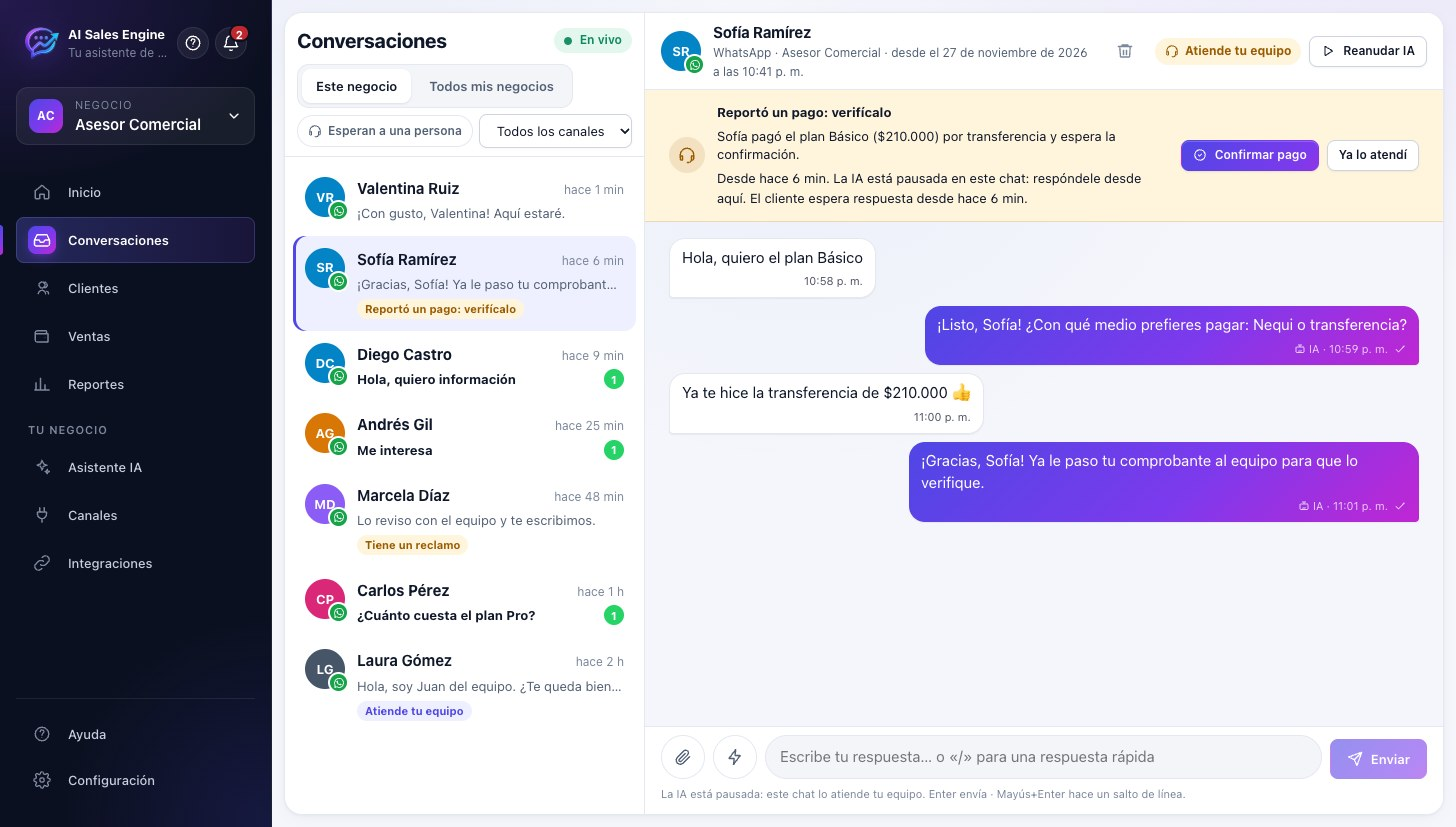
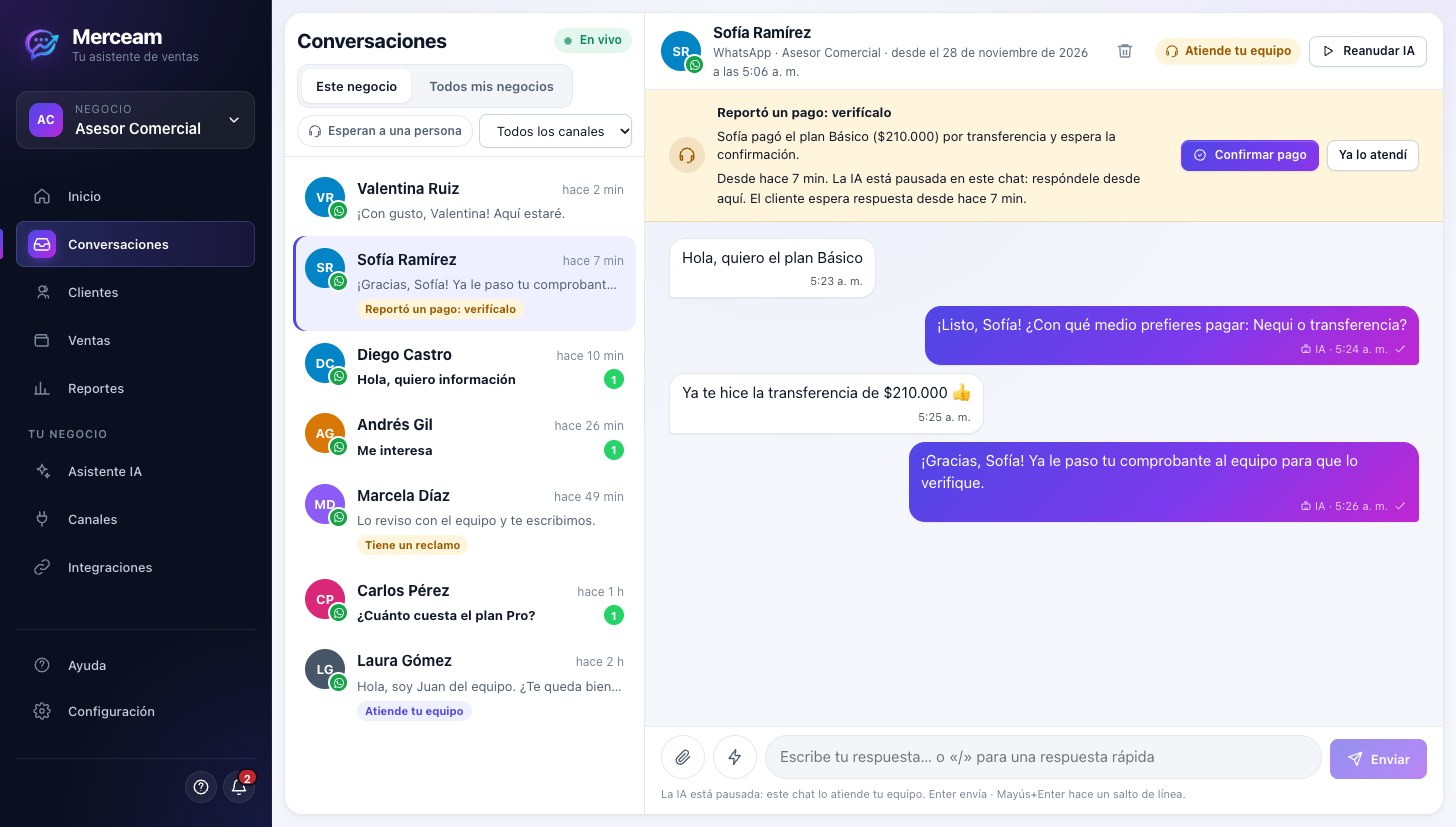
El menú muestra «Merceam» grande y completo: la ayuda de la pantalla y la campana de avisos pasan abajo, junto al nombre y el correo de la cuenta, y el panel de avisos se abre desde ahí; capturas del README tomadas de nuevo con el nombre y el menú nuevos

diff --git a/apps/admin-web/src/layout/Sidebar.tsx b/apps/admin-web/src/layout/Sidebar.tsx
@@ -41,8 +41,8 @@ interface SidebarProps {
 const SWIPE_TO_CLOSE = 60;
 
 /**
- * Menú del negocio: primero atender y vender; después, su configuración. Como en Slack o Linear, los avisos van junto a la marca y
- * la cuenta abajo: el contenido no pierde alto con una barra superior.
+ * Menú del negocio: primero atender y vender; después, su configuración. Arriba va solo la marca; abajo, la cuenta con la ayuda y
+ * los avisos a su lado: el contenido no pierde alto con una barra superior.
  */
 export function Sidebar({ id, open, compact = false, onClose, onOpenHelp }: SidebarProps) {
   const { progress, publication } = useConfig();
@@ -79,15 +79,10 @@ export function Sidebar({ id, open, compact = false, onClose, onOpenHelp }: Side
           <span className="sidebar__brand-name">{BRAND_NAME}</span>
           <span className="sidebar__brand-sub">Tu asistente de ventas</span>
         </div>
-        {compact ? (
+        {compact && (
           <button type="button" className="sidebar__close" aria-label="Cerrar menú" onClick={onClose}>
             <Icon name="close" size={18} />
           </button>
-        ) : (
-          <span className="sidebar__actions">
-            {onOpenHelp && <HelpButton onOpen={onOpenHelp} />}
-            <NotificationBell />
-          </span>
         )}
       </div>
 
@@ -122,9 +117,16 @@ export function Sidebar({ id, open, compact = false, onClose, onOpenHelp }: Side
         </div>
       </nav>
 
-      {verifiesCredentials && (
+      {/* Abajo, en una fila: la cuenta y, a su lado, la ayuda de la pantalla y los avisos (en el celular van en la barra superior). */}
+      {(verifiesCredentials || !compact) && (
         <div className="sidebar__footer">
-          <UserMenu />
+          {verifiesCredentials && <UserMenu />}
+          {!compact && (
+            <span className="sidebar__actions">
+              {onOpenHelp && <HelpButton onOpen={onOpenHelp} />}
+              <NotificationBell />
+            </span>
+          )}
         </div>
       )}
     </aside>

diff --git a/apps/admin-web/src/styles/workspace.css b/apps/admin-web/src/styles/workspace.css
@@ -1774,10 +1774,7 @@
 }
 
 
-/* ---------------------------------------------------------------- avisos y cuenta en la barra lateral (como Slack o Linear) */
-.sidebar__brand .bell {
-  margin-left: auto;
-}
+/* ---------------------------------------------------------------- cuenta, ayuda y avisos al pie de la barra lateral */
 
 .sidebar .bell__button {
   width: 34px;
@@ -1802,7 +1799,8 @@
 /* Los menús de la barra lateral se abren a su lado, por encima de todo (la barra recorta lo que se sale de ella). */
 .sidebar .bell__panel {
   position: fixed;
-  top: var(--space-4);
+  top: auto;
+  bottom: var(--space-4);
   left: calc(var(--sidebar-width) + 10px);
   right: auto;
   z-index: 60;
@@ -1812,6 +1810,23 @@
   margin-top: auto;
   padding-top: var(--space-3);
   border-top: 1px solid var(--sidebar-border);
+  display: flex;
+  align-items: center;
+  gap: var(--space-2);
+}
+
+.sidebar__footer .user-menu {
+  flex: 1;
+  min-width: 0;
+}
+
+/* Con la ayuda y los avisos al lado, la cuenta no lleva flecha: el espacio es para el nombre y el correo. */
+.sidebar__footer:has(.sidebar__actions) .user-menu__trigger {
+  padding: 8px 6px;
+}
+
+.sidebar__footer:has(.sidebar__actions) .user-menu__trigger .icon {
+  display: none;
 }
 
 .sidebar .user-menu__trigger {

diff --git a/apps/admin-web/src/styles/help.css b/apps/admin-web/src/styles/help.css
@@ -10,18 +10,9 @@
   margin-left: auto;
 }
 
-/* Con dos botones junto a la marca, el nombre sigue en una línea. */
+/* En el menú van abajo, al lado de la cuenta. */
 .sidebar__actions {
   gap: 6px;
-}
-
-.sidebar__brand:has(.sidebar__actions) {
-  gap: var(--space-2);
-}
-
-.sidebar__brand:has(.sidebar__actions) .sidebar__brand-name {
-  white-space: nowrap;
-  font-size: var(--text-sm);
 }
 
 .sidebar__actions .bell__button,

diff --git a/apps/admin-web/src/styles/layout.css b/apps/admin-web/src/styles/layout.css
@@ -61,9 +61,10 @@
 }
 
 .sidebar__brand-name {
-  font-weight: 700;
-  font-size: var(--text-md);
-  letter-spacing: -0.01em;
+  font-weight: 800;
+  font-size: 21px;
+  line-height: 1.15;
+  letter-spacing: -0.03em;
   color: var(--sidebar-text-strong);
 }
 

diff --git a/CHANGELOG.md b/CHANGELOG.md
@@ -11,6 +11,8 @@ está en el historial de git y en `docs/plan-v1.md`.
 - La dirección del panel pasa a `merceam.vercel.app` y la del motor (la API del asistente) a `merceam-api.vercel.app`. Quien tenga
   encendidas las notificaciones del navegador debe encenderlas otra vez en la dirección nueva, y los agentes conectados (Claude,
   ChatGPT, Cursor) se conectan de nuevo con ella.
+- En el menú, el nombre se ve más grande y completo: la ayuda de la pantalla y la campana de avisos pasan abajo, al lado de tu
+  nombre y tu correo.
 
 **Seguimiento automático: le volvemos a escribir a quien dejó de responder**
 - En Mensajes → **Seguimiento** lo enciendes y ya viene armado con tres mensajes recomendados (a la hora, al día siguiente y a los
